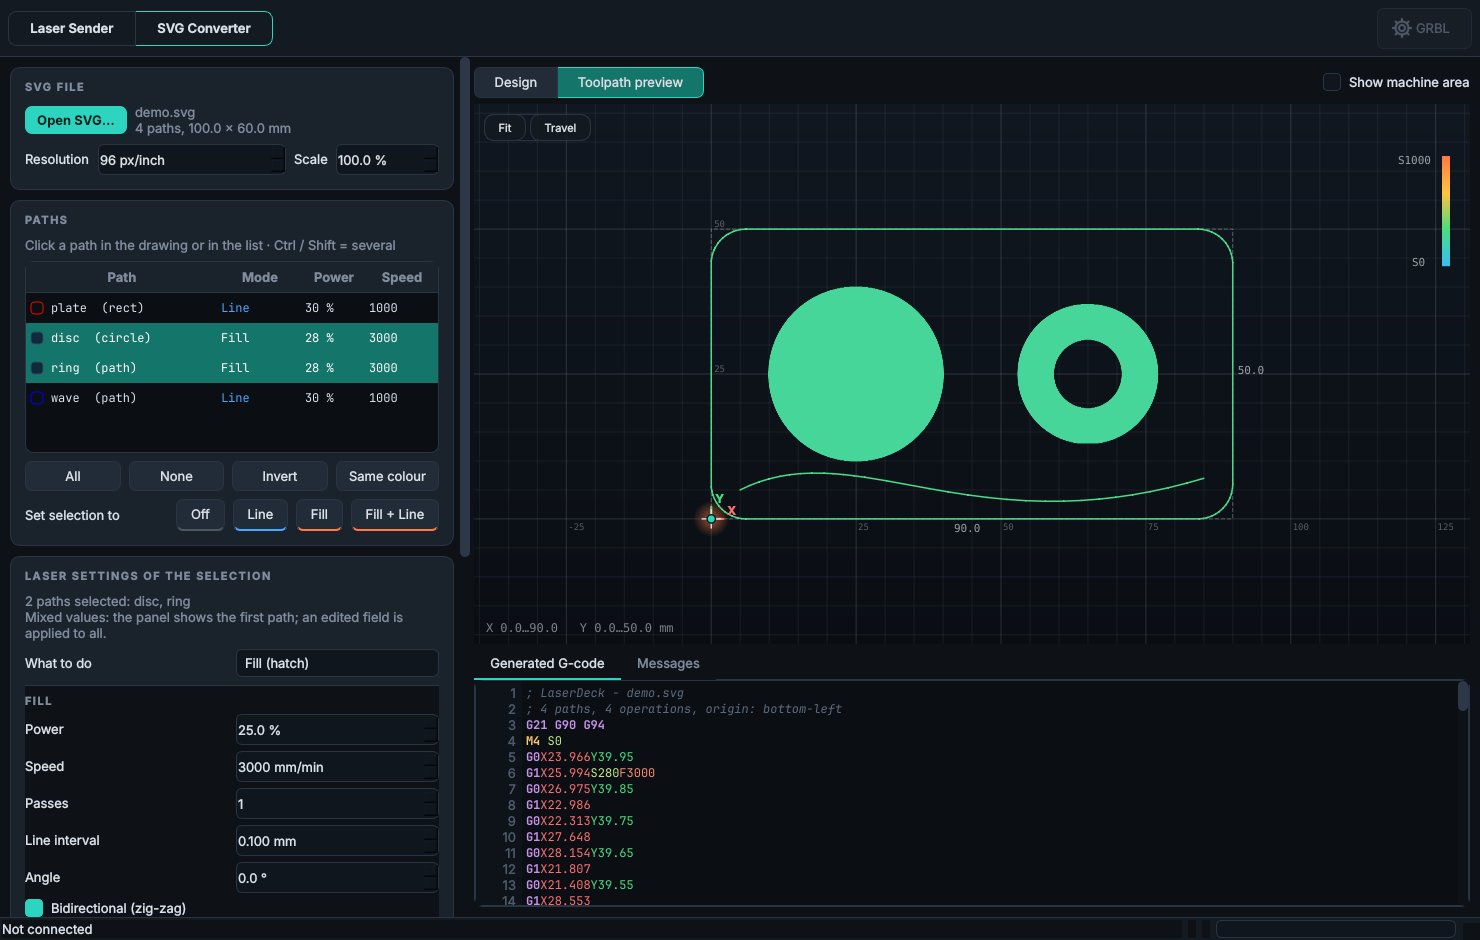
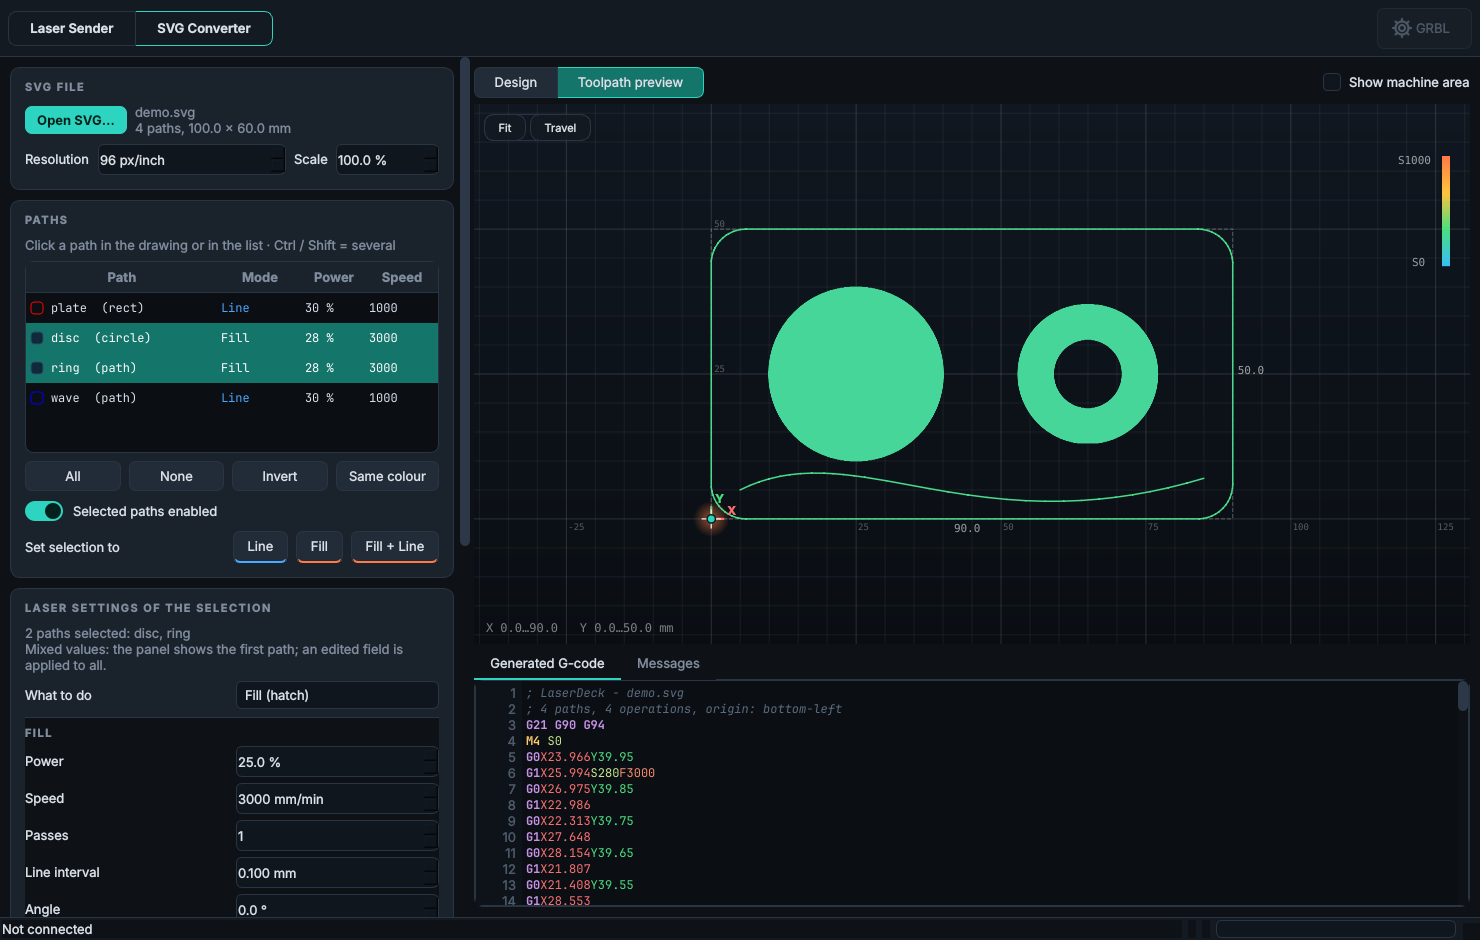
Replace Off/On buttons with an enable switch for the selected paths
Claude-Session: https://claude.ai/code/session_01JUoeoPbjRRopoqtzHmLLRh

Changed region(s): [[0.0, 0.5245, 0.3108, 0.9872]]

diff --git a/laserdeck/convertpage.py b/laserdeck/convertpage.py
@@ -7,7 +7,7 @@ import json
 import os
 from dataclasses import fields
 
-from PySide6.QtCore import QSettings, Qt, QThread, QTimer, Signal
+from PySide6.QtCore import QRectF, QSettings, QSize, Qt, QThread, QTimer, Signal
 from PySide6.QtGui import QColor, QIcon, QPainter, QPixmap
 from PySide6.QtWidgets import (QAbstractItemView, QCheckBox, QComboBox, QDoubleSpinBox, QFileDialog, QFrame,
                                QGridLayout, QHBoxLayout, QHeaderView, QInputDialog, QLabel, QMessageBox,
@@ -28,6 +28,31 @@ ORDERS = [("engrave-first", "Fill first, lines last (recommended)"), ("listed", 
 LASER_CMDS = [("M4", "M4 dynamic power (recommended)"), ("M3", "M3 constant power")]
 LINE_FIELDS = ("line_power", "line_speed", "line_passes", "offset")
 FILL_FIELDS = ("fill_power", "fill_speed", "fill_passes", "interval", "angle", "bidir", "crosshatch", "overscan")
+
+
+class Switch(QCheckBox):
+    """Toggle switch (pill with a sliding knob) with a text label."""
+
+    def sizeHint(self):
+        sh = super().sizeHint()
+        return QSize(44 + 10 + self.fontMetrics().horizontalAdvance(self.text()), max(sh.height(), 24))
+
+    def paintEvent(self, _ev) -> None:
+        p = QPainter(self)
+        p.setRenderHint(QPainter.Antialiasing)
+        on, en = self.isChecked(), self.isEnabled()
+        h = 20
+        y = (self.height() - h) / 2
+        track = QColor(theme.ACCENT if on else "#2c3847")
+        if not en:
+            track = QColor("#1c3a37" if on else "#171e26")
+        p.setPen(Qt.NoPen)
+        p.setBrush(track)
+        p.drawRoundedRect(QRectF(0, y, 38, h), h / 2, h / 2)
+        p.setBrush(QColor("#04211d" if on else theme.TEXT) if en else QColor("#4d5866"))
+        p.drawEllipse(QRectF(20 if on else 2, y + 2, h - 4, h - 4))
+        p.setPen(QColor(theme.TEXT if en else "#4d5866"))
+        p.drawText(QRectF(48, 0, self.width() - 48, self.height()), Qt.AlignVCenter | Qt.AlignLeft, self.text())
 
 
 class GenThread(QThread):
@@ -179,9 +204,17 @@ class ConverterPage(QWidget):
             row.addWidget(bt)
         c.body.addLayout(row)
         row = QHBoxLayout()
+        self.chk_enabled = Switch("Selected paths enabled")
+        self.chk_enabled.setToolTip("Switch the selected paths on or off. Switching off keeps their settings: switching on "
+                                    "restores the previous mode and values.")
+        self.chk_enabled.toggled.connect(self._enable_toggled)
+        row.addWidget(self.chk_enabled)
+        row.addStretch()
+        c.body.addLayout(row)
+        row = QHBoxLayout()
         row.addWidget(QLabel("Set selection to"))
         self.quick: dict[str, QToolButton] = {}
-        for key, _ in MODES:
+        for key, _ in MODES[1:]:
             bt = QToolButton()
             bt.setText(MODE_SHORT[key])
             bt.setStyleSheet(f"padding:5px 8px; border-bottom: 2px solid {MODE_COLORS[key]};")
@@ -198,17 +231,12 @@ class ConverterPage(QWidget):
         self.sel_label.setWordWrap(True)
         c.body.addWidget(self.sel_label)
         self.w: dict[str, QWidget] = {}
-        self.w["mode"] = _combo(MODES)
+        self.w["mode"] = _combo(MODES[1:])      # "off" is the switch
         g = QGridLayout()
         g.setHorizontalSpacing(8)
         g.setVerticalSpacing(6)
         g.addWidget(QLabel("What to do"), 0, 0)
         g.addWidget(self.w["mode"], 0, 1)
-        self.btn_on = QPushButton("On")
-        self.btn_on.setObjectName("primary")
-        self.btn_on.setToolTip("Turn the disabled paths back on with their previous mode and settings")
-        self.btn_on.clicked.connect(self._turn_on)
-        g.addWidget(self.btn_on, 0, 2)
         c.body.addLayout(g)
 
         def group(title, rows):
@@ -579,14 +607,19 @@ class ConverterPage(QWidget):
         sids = [s for s in self.selected_sids() if s in self.settings]
         self._loading = True
         en = bool(sids)
+        any_on = any(self.settings[s].mode != "off" for s in sids)
         for wid in self.w.values():
-            wid.setEnabled(en)
+            wid.setEnabled(en and any_on)
         for b in self.quick.values():
             b.setEnabled(en)
+        self.chk_enabled.setEnabled(en)
+        self.chk_enabled.setChecked(en and all(self.settings[s].mode != "off" for s in sids))
         if en:
             st = self.settings[sids[0]]
             for fname, wid in self.w.items():
                 v = getattr(st, fname)
+                if fname == "mode" and v == "off":
+                    v = st.last_mode
                 if isinstance(wid, QComboBox):
                     wid.setCurrentIndex(max(0, wid.findData(v)))
                 elif isinstance(wid, QCheckBox):
@@ -594,7 +627,6 @@ class ConverterPage(QWidget):
                 else:
                     wid.setValue(v)
             modes = {self.settings[s].mode for s in sids}
-            self.btn_on.setVisible("off" in modes)
             self.grp_line.setVisible(any(m in ("line", "both") for m in modes))
             self.grp_fill.setVisible(any(m in ("fill", "both") for m in modes))
             names = ", ".join(sids[:3]) + (f" … (+{len(sids) - 3})" if len(sids) > 3 else "")
@@ -602,7 +634,6 @@ class ConverterPage(QWidget):
                                    + ("\nMixed values: the panel shows the first path; an edited field is applied to all."
                                       if len(sids) > 1 else ""))
         else:
-            self.btn_on.setVisible(False)
             self.grp_line.setVisible(True)
             self.grp_fill.setVisible(True)
             self.sel_label.setText("Select one or more paths (list or click in the drawing) to set what the laser does")
@@ -623,11 +654,17 @@ class ConverterPage(QWidget):
             self._load_widgets()
         self._schedule()
 
-    def _turn_on(self) -> None:
-        sids = [s for s in self.selected_sids() if s in self.settings and self.settings[s].mode == "off"]
+    def _enable_toggled(self, on: bool) -> None:
+        if self._loading:
+            return
+        sids = [s for s in self.selected_sids() if s in self.settings]
         for sid in sids:
             st = self.settings[sid]
-            st.mode = st.last_mode if st.last_mode != "off" else "line"
+            if on and st.mode == "off":
+                st.mode = st.last_mode if st.last_mode != "off" else "line"
+            elif not on and st.mode != "off":
+                st.last_mode = st.mode           # settings stay untouched, switching on restores them
+                st.mode = "off"
             self._refresh_row(sid)
         if sids:
             self._sync_design()

diff --git a/tests/test_ui.py b/tests/test_ui.py
@@ -167,14 +167,15 @@ def test_hold_to_fire_needs_enable_and_switches_off(app, win):
     assert pump(app, lambda: win.conn._ser._spindle == "M5")
 
 
-def test_off_then_on_restores_previous_mode_and_settings(app, win):
+def test_switch_off_then_on_restores_previous_mode_and_settings(app, win):
     c = load(app, win)
     c._select({"disc"})
     c.w["fill_power"].setValue(33.0)
     c._set_field("mode", "both")
-    c._set_field("mode", "off")
-    assert c.settings["disc"].mode == "off" and c.btn_on.isVisibleTo(c)
-    c._turn_on()
+    assert c.chk_enabled.isChecked()
+    c.chk_enabled.setChecked(False)
+    assert c.settings["disc"].mode == "off" and c.design.modes["disc"] == "off"
+    assert not c.w["fill_power"].isEnabled()
+    c.chk_enabled.setChecked(True)
     st = c.settings["disc"]
-    assert st.mode == "both" and st.fill_power == 33.0
-    assert not c.btn_on.isVisibleTo(c)
+    assert st.mode == "both" and st.fill_power == 33.0 and c.w["fill_power"].isEnabled()
